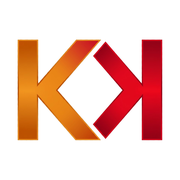
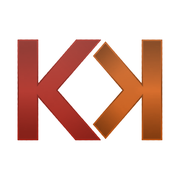
Switch brand colours to brick and burnt orange
KK logo recoloured per letter (brick left, burnt orange right) for favicon, touch icons
and header mark; site gradient, links and hover follow; cache-busting on icon URLs.

Claude-Session: https://claude.ai/code/session_01VMYzZYasH3r62qJpao9w98

Changed region(s): [[0.0833, 0.1944, 0.9167, 0.8056]]

diff --git a/assets/main.scss b/assets/main.scss
@@ -2,16 +2,16 @@
 # Only the main Sass file needs front matter (the dashes are enough)
 ---
 
-// Link colour: deep red from the KK logo (5.9:1 contrast on white)
-$brand-color: #C8102E;
+// Link colour: brick from the KK logo (7.0:1 contrast on white)
+$brand-color: #A8281E;
 
 @import "minima";
 
-$kk-orange: #F0901E;
-$kk-red: #C8102E;
-$kk-gradient: linear-gradient(90deg, $kk-orange, $kk-red);
+$kk-brick: #A8281E;
+$kk-burnt: #D2601A;
+$kk-gradient: linear-gradient(90deg, $kk-brick, $kk-burnt);
 
-// 1. Orange-to-red bar along the top of every page (replaces minima's dark line)
+// 1. Brick-to-burnt-orange bar along the top of every page (replaces minima's dark line)
 .site-header {
   border-top: 5px solid transparent;
 }
@@ -38,9 +38,9 @@ $kk-gradient: linear-gradient(90deg, $kk-orange, $kk-red);
   width: auto;
 }
 
-// 3. Links turn a deeper orange on hover (5.2:1 contrast on white)
+// 3. Links turn a darker burnt orange on hover (5.0:1 contrast on white)
 a:hover {
-  color: #C2410C;
+  color: #B4520F;
 }
 
 // 4. Short gradient accent under section headings

diff --git a/_includes/head.html b/_includes/head.html
@@ -3,10 +3,10 @@
   <meta http-equiv="X-UA-Compatible" content="IE=edge">
   <meta name="viewport" content="width=device-width, initial-scale=1">
   {%- seo -%}
-  <link rel="icon" href="{{ "/favicon.ico" | relative_url }}" sizes="32x32">
-  <link rel="icon" href="{{ "/favicon-32x32.png" | relative_url }}" type="image/png" sizes="32x32">
-  <link rel="icon" href="{{ "/icon-192.png" | relative_url }}" type="image/png" sizes="192x192">
-  <link rel="apple-touch-icon" href="{{ "/apple-touch-icon.png" | relative_url }}">
+  <link rel="icon" href="{{ "/favicon.ico" | relative_url }}?v=2" sizes="32x32">
+  <link rel="icon" href="{{ "/favicon-32x32.png" | relative_url }}?v=2" type="image/png" sizes="32x32">
+  <link rel="icon" href="{{ "/icon-192.png" | relative_url }}?v=2" type="image/png" sizes="192x192">
+  <link rel="apple-touch-icon" href="{{ "/apple-touch-icon.png" | relative_url }}?v=2">
   <link rel="stylesheet" href="{{ "/assets/main.css" | relative_url }}">
   {%- feed_meta -%}
   {%- if jekyll.environment == 'production' and site.google_analytics -%}

diff --git a/_includes/header.html b/_includes/header.html
@@ -3,7 +3,7 @@
   <div class="wrapper">
     {%- assign default_paths = site.pages | map: "path" -%}
     {%- assign page_paths = site.header_pages | default: default_paths -%}
-    <a class="site-title" rel="author" href="{{ "/" | relative_url }}"><img src="{{ "/images/kk-mark.png" | relative_url }}" alt="" width="37" height="26">{{ site.title | escape }}</a>
+    <a class="site-title" rel="author" href="{{ "/" | relative_url }}"><img src="{{ "/images/kk-mark.png" | relative_url }}?v=2" alt="" width="37" height="26">{{ site.title | escape }}</a>
 
     {%- if page_paths -%}
       <nav class="site-nav">
